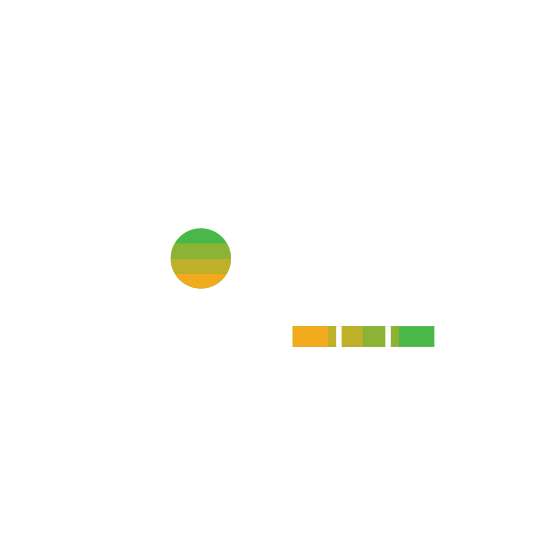
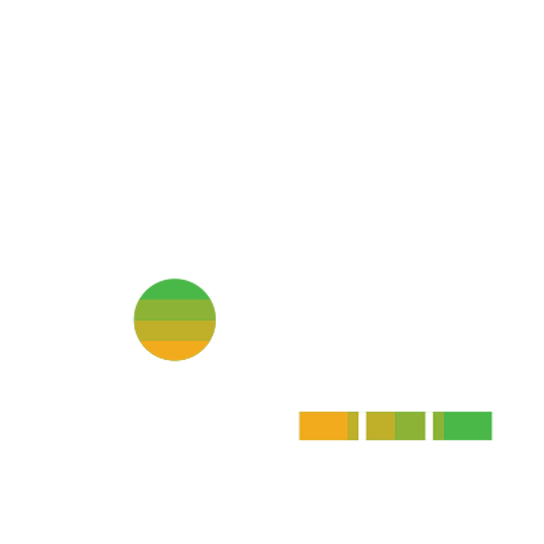
cards finish

Changed region(s): [[0.2188, 0.4062, 0.4375, 0.6875], [0.5312, 0.75, 0.9062, 0.8125], [0.5312, 0.5938, 0.8125, 0.6562]]

diff --git a/public/css/index.css b/public/css/index.css
@@ -55,6 +55,7 @@ h2{
 /*QUESTIONS*/
 h2.question{
 	font-size: 32px;
+	margin-bottom: 50px;
 }
 span.number{
 	color: #FBB819;
@@ -169,7 +170,8 @@ span.number{
 }
 .mdl-card-question .card-front img{
 	width: 100%;
-	max-width: 165px;
+	max-width: 125px;
+    margin: 20px auto 10px;
 }
 .mdl-card-question .card-front p{
 	color: #FFFFFF;
